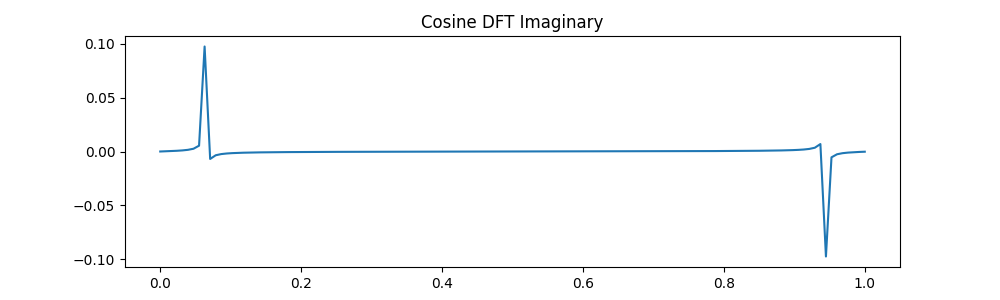
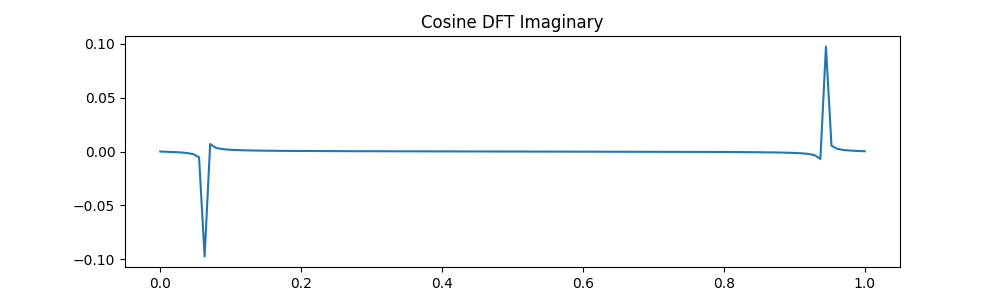
Added functionality for rectangle. Not sure if it is working properly, need to do more research on centering the spectrum

Changed region(s): [[0.527, 0.15, 0.868, 0.84], [0.155, 0.18, 0.465, 0.84]]

diff --git a/experiment_1.py b/experiment_1.py
@@ -2,24 +2,24 @@ import numpy as np
 import matplotlib.pyplot as plt
 import math
 
-file_save_path = "Experiment_1"
+outfile_path = "Experiment_1"
 #Part 1.a
 f = [2, 3, 4, 4] 
 
 f_transformed = np.fft.fft(f, norm='forward')
 f_reverse_transform = np.fft.ifft(f_transformed, norm='forward')
 
-print(f_transformed)
-print(f_reverse_transform)
+# print(f_transformed)
+# print(f_reverse_transform)
 
 #Part 1.b
 cos_sample_size = 128
-cycles = 8
+cycles = 8 #number of times function will complete 1 cycle. Cycle is repeated pattern
 u = 8
-period = 2*math.pi*u
+period = (2*math.pi)/(2*math.pi*u) # = 1/u, period is x distance required to complete a cycle
 
 #get max x value 
-max_x = (2*math.pi*cycles)/period
+max_x = period*cycles
 
 #calculate sample points within interval
 sample_points = np.linspace(0, max_x, 128)
@@ -27,7 +27,7 @@ sample_points = np.linspace(0, max_x, 128)
 #sample cos function
 cos_samples = []
 for x in sample_points:
-    cos_samples.append(math.cos(2*math.pi*u*x))
+    cos_samples.append((math.cos(2*math.pi*u*x))*(-1**x))#multiply by (-1^x) to center fourier transform
 
 cos_samples = np.array(cos_samples)
 
@@ -35,7 +35,7 @@ cos_samples = np.array(cos_samples)
 plt.figure(figsize=(10, 3))
 plt.plot(sample_points, cos_samples, 'o')
 plt.title("Sampled Cosine")
-plt.savefig(f"{file_save_path}\Sampled_Cosine.png")
+plt.savefig(f"{outfile_path}\Sampled_Cosine.png")
 
 #compute DFT of cos function
 cos_dft = np.fft.fft(cos_samples, norm='forward')
@@ -44,10 +44,88 @@ cos_dft = np.fft.fft(cos_samples, norm='forward')
 plt.figure(figsize=(10, 3))
 plt.plot(sample_points, cos_dft.real)
 plt.title("Cosine DFT Real")
-plt.savefig(f"{file_save_path}\Cosine_DFT_Real.png")
+plt.savefig(f"{outfile_path}\Cosine_DFT_Real.png")
 
 #plot imaginary
 plt.figure(figsize=(10, 3))
 plt.plot(sample_points, cos_dft.imag)
 plt.title("Cosine DFT Imaginary")
-plt.savefig(f"{file_save_path}\Cosine_DFT_Imaginary.png")
+plt.savefig(f"{outfile_path}\Cosine_DFT_Imaginary.png")
+
+#calculate magnitude and phase of cos dft
+cos_mag = []
+cos_phase = []
+
+for real, imag in zip(cos_dft.real, cos_dft.imag):
+    mag = math.sqrt(real**2+imag**2)
+    phase = math.atan(imag/real)
+
+    cos_mag.append(mag)
+    cos_phase.append(phase)
+
+#plot mag
+plt.figure(figsize=(10, 3))
+plt.plot(sample_points, cos_mag)
+plt.title("Magnitude of Cosine DFT")
+plt.savefig(f"{outfile_path}\Cosine_DFT_Mag.png")
+
+#plot phase
+plt.figure(figsize=(10, 3))
+plt.plot(sample_points, cos_phase)
+plt.title("Phase of Cosine DFT")
+plt.savefig(f"{outfile_path}\Cosine_DFT_Phase.png")
+
+
+#Part 1.c
+with open("Rect_128.txt") as file:
+    rect_values = file.readlines()
+    rect_values = [float(value.strip()) for value in rect_values]
+    rect_values = [(-1**value)*value for value in rect_values]#center fourier transform
+
+#calculate x-values
+#rectangle centered on x = 0
+rect_x_values = list(range(-len(rect_values)//2, len(rect_values)//2))
+
+#plot rectangle
+plt.figure(figsize=(10, 3))
+plt.plot(rect_x_values, rect_values, 'o')
+plt.title("Rectangle")
+plt.savefig(f"{outfile_path}\Rectangle.png")
+
+#compute dft of rectangle
+rect_dft = np.fft.fft(rect_values, norm='forward')
+
+#plot rect dft real
+plt.figure(figsize=(10, 3))
+plt.plot(rect_x_values, rect_dft.real)
+plt.title("Rectangle DFT Real")
+plt.savefig(f"{outfile_path}\Rectangle_DFT_Real.png")
+
+#plot rect dft imag
+plt.figure(figsize=(10, 3))
+plt.plot(rect_x_values, rect_dft.imag)
+plt.title("Rectangle DFT Imaginary")
+plt.savefig(f"{outfile_path}\Rectangle_DFT_Imag.png")
+
+#calculate magnitude and phase of rectangle dft
+rect_mag = []
+rect_phase = []
+
+for real, imag in zip(rect_dft.real, rect_dft.imag):
+    mag = math.sqrt(real**2+imag**2)
+    phase = math.atan(imag/real)
+
+    rect_mag.append(mag)
+    rect_phase.append(phase)
+
+#plot mag
+plt.figure(figsize=(10, 3))
+plt.plot(rect_x_values, rect_mag)
+plt.title("Magnitude of Rectangle DFT")
+plt.savefig(f"{outfile_path}\Rectangle_DFT_Mag.png")
+
+#plot phase
+plt.figure(figsize=(10, 3))
+plt.plot(rect_x_values, rect_phase)
+plt.title("Phase of Rectangle DFT")
+plt.savefig(f"{outfile_path}\Rectangle_DFT_Phase.png")
